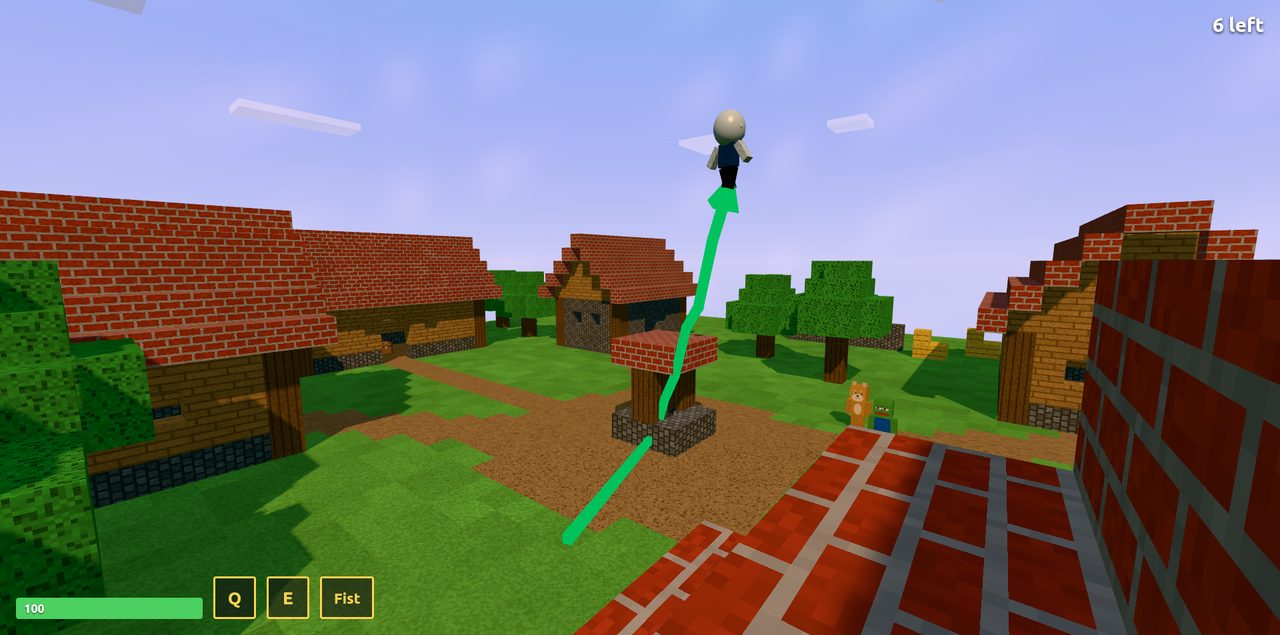
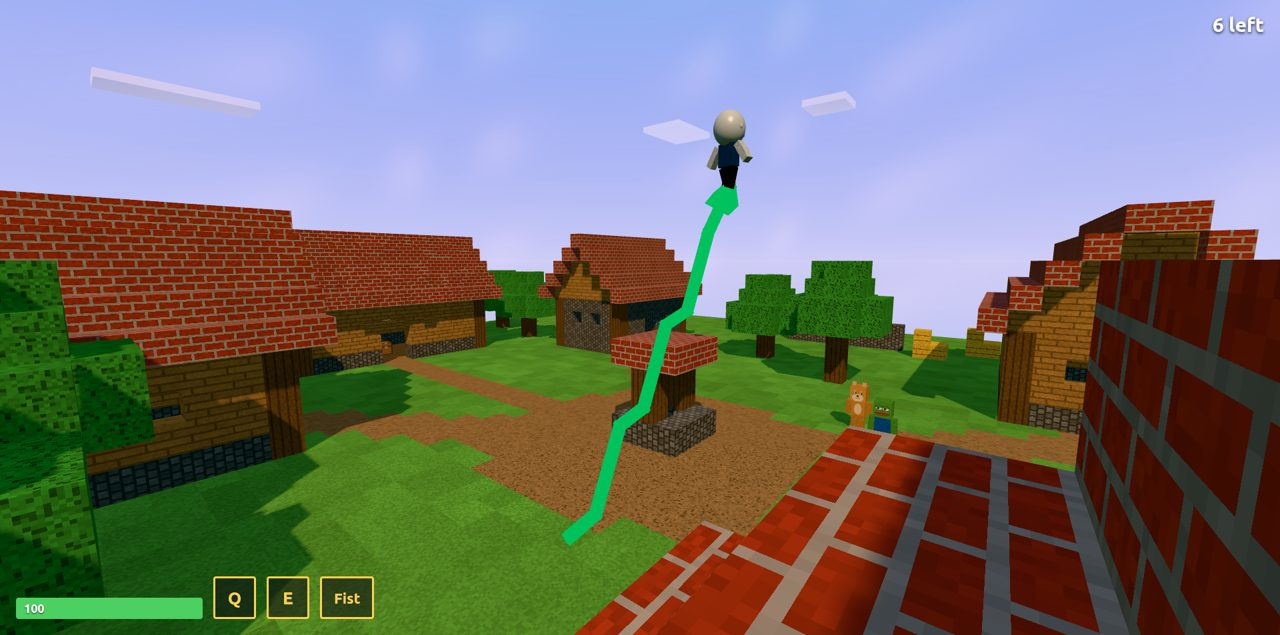
Fix round for PR #8: nothing outlives a restart, no inherited block, true chart endpoints
The GPT-6.1 review found three P2 bugs, all reproduced in the probe before the fix:

- Benched characters left effects in the world. A kit's Gear now has clear(), run on hide() and
  respawn(): the cow's slow-motion ghosts, Meme Man's charts and scorch mark go at once.
- Play Again while carrying a block threw it into the new match. Gigachad's clear() puts down what
  he holds without throwing it, and the match clears projectiles after everyone is respawned.
- Meme Man's chart built its points with the same scratch vector its caller passed as an endpoint,
  so the red chart ended at (0, 0, 0). It copies its endpoints and has its own offset vector.

Probe: 51 PASS (two new checks, both failing on the unfixed code), byte-identical over two runs.
The stonks screenshots (docs/m3/10, 11) are re-shot with the corrected charts.

diff --git a/scripts/probe-m3.ts b/scripts/probe-m3.ts
@@ -64,6 +64,9 @@ export function m3(canvas: HTMLCanvasElement) {
   seeded(36, () => wojak());
   seeded(37, () => cow());
   seeded(38, () => matches());
+  // The PR #8 review's reproductions.
+  seeded(41, () => charts());
+  seeded(42, () => restart(canvas));
 }
 
 /** The kit system: every module is a working character, and no shared code names any of them. */
@@ -450,5 +453,88 @@ function matches() {
   const unused = wanted.filter((w) => !uses.get(w));
   check('Bots use every power in real matches', unused.length === 0 && !broken && match.time > BOSS_AT,
     `6 bot-only matches: ${[...uses].map(([k, n]) => `${k} ${n}`).join(', ')}${unused.length ? `; never used: ${unused.join(', ')}` : ''}${broken ? `; broken: ${broken}` : ''}`);
+  for (const f of match.fighters) f.hide();
+}
+
+/**
+ * PR #8 review: the chart Meme Man rides runs from where he takes off to the top, and the red one
+ * from the top down to where he lands. Building its points used to move an endpoint passed in as a
+ * shared scratch vector, so a launch from (10, 0, -6) to (16, 0, -6) drew the red line to (0, 0, 0).
+ */
+function charts() {
+  resetWorld();
+  const mm = body('Meme Man', 10, 0.0001, -6), a = arena([mm]);
+  const stonks = power(mm) as Power & { crashes: number; charts: { bars: THREE.Mesh[]; ends: THREE.Vector3[] }[]; apex: THREE.Vector3 };
+  mm.goal.set(16, 0, -6);
+  stonks.use(mm, a);
+  sim(a, 3, [], () => stonks.crashes > 0);
+  const [rise, fall] = stonks.charts;
+  const ends = (c: typeof rise) => [c.bars[0].position.clone().multiplyScalar(2).sub(c.ends[0]), c.ends[c.ends.length - 1]];
+  const [riseFrom, riseTo] = ends(rise), [fallFrom, fallTo] = ends(fall), apex = stonks.apex;
+  const takeoff = new THREE.Vector3(10, 0.4001, -6), impact = new THREE.Vector3(16, 0.4, -6);
+  const off = [riseFrom.distanceTo(takeoff), riseTo.distanceTo(apex), fallFrom.distanceTo(apex), fallTo.distanceTo(impact)];
+  // Every corner of the zigzag sits over the straight line between its ends, evenly spaced; only its height jogs.
+  const stray = (c: typeof rise, from: THREE.Vector3, to: THREE.Vector3) =>
+    Math.max(...c.ends.map((p, i) => {
+      const want = from.clone().lerp(to, (i + 1) / c.ends.length);
+      return Math.hypot(p.x - want.x, p.z - want.z);
+    }));
+  const worst = Math.max(stray(rise, takeoff, apex), stray(fall, apex, impact));
+  const v = (p: THREE.Vector3) => `(${p.toArray().map((n) => r(n, 2)).join(', ')})`;
+  check('Meme Man\'s charts run from his take-off to the top, and down to where he lands', stonks.charts.length === 2 && Math.max(...off) < 0.05 && worst < 0.05 && Math.hypot(mm.pos.x - 16, mm.pos.z + 6) < 1,
+    `green ${v(riseFrom)} to ${v(riseTo)}, red ${v(fallFrom)} to ${v(fallTo)}, every corner within ${r(worst, 3)} of its place along the way; the top at ${v(apex)}; he came down at ${v(mm.pos)}`);
+  done(mm);
+}
+
+/**
+ * PR #8 review: Play Again leaves nothing behind. With the cow's slow-motion ghosts, Meme Man's
+ * charts and the player's carried block all out, a restart without those characters shows exactly
+ * what a clean start shows, with nothing in flight; three seconds on, still nothing of theirs.
+ */
+function restart(canvas: HTMLCanvasElement) {
+  resetWorld();
+  const you = new Player(body('Gigachad', 0, 0.0001, 8), canvas);
+  const match = new Match(scene, fx, you), a = match.arena;
+  const after = ['Doge', 'Pepe', 'Trollface', 'Nyan Cat', 'Wojak'].map(kit);
+  const shown = () => new Set(scene.children.filter((c) => c.visible));
+  const frame = (dt: number) => {
+    match.step(dt, false);
+    for (const f of match.fighters) f.render(dt, false);
+  };
+  seeded(5, () => match.start(after));
+  for (const f of match.fighters) f.render(0, false);
+  const clean = shown();
+
+  match.start(['Udder Cow', 'Meme Man', 'Orang', 'Nyan Cat', 'Wojak'].map(kit));
+  for (let i = 0; i < 120; i++) frame(1 / 60); // everyone lands
+  // Every bot's power at once, aimed 8 blocks ahead of it, and the player tears out a block to carry.
+  for (const f of match.bots.map((b) => b.f)) {
+    f.goal.copy(f.pos).addScaledVector(f.forward(new THREE.Vector3()), 8);
+    f.aimDir.subVectors(f.goal, f.pos).normalize();
+    for (const p of f.gear.powers) p.use(f, a);
+  }
+  const carried = power(you.f, 1).use(you.f, a) && you.f.lifting;
+  for (let i = 0; i < 36; i++) frame(1 / 60);
+  const out = [...shown()].filter((c) => !clean.has(c)).length;
+  const cow = match.fighters.find((f) => f.kit.name === 'Udder Cow')!, mm = match.fighters.find((f) => f.kit.name === 'Meme Man')!;
+  const busy = `cow jumping ${cow.busy}, Meme Man riding the chart ${mm.busy}, player carrying ${carried}`;
+
+  seeded(5, () => match.start(after));
+  for (const f of match.fighters) f.render(0, false);
+  const left = [...shown()].filter((c) => !clean.has(c));
+  const flying = match.shots.flying;
+  // Three seconds on, ignoring what the new match's own fighters put up: rings, flashes, health bars, shots.
+  for (let i = 0; i < 180; i++) frame(1 / 60);
+  const own = new Set<THREE.Object3D>([
+    ...(fx as unknown as { rings: { mesh: THREE.Object3D }[] }).rings.map((x) => x.mesh),
+    ...(fx as unknown as { flashes: { sprite: THREE.Object3D }[] }).flashes.map((x) => x.sprite),
+    ...[...match.cast.map((b) => b.f), you.f].flatMap((f) => (f as unknown as { hpBar?: { sprite: THREE.Object3D } }).hpBar?.sprite ?? []),
+  ]);
+  const shots = match.shots as unknown as { live: { mesh: THREE.Object3D }[]; spare: Record<string, THREE.Object3D[]> };
+  for (const x of [...shots.live.map((l) => l.mesh), ...Object.values(shots.spare).flat()]) own.add(x);
+  const later = [...shown()].filter((c) => !clean.has(c) && !own.has(c));
+  const names = (cs: THREE.Object3D[]) => cs.map((c) => c.type + (c.children.length ? `(${c.children.length})` : '')).join(', ') || 'none';
+  check('Play Again leaves nothing behind: no ghosts, charts or carried block from the last match', out > 0 && cow.busy && mm.busy && carried && left.length === 0 && flying === 0 && later.length === 0,
+    `${out} objects of theirs up mid-power (${busy}); after the restart, left over: ${names(left)}, ${flying} shots in flight; 3 s later: ${names(later)}`);
   for (const f of match.fighters) f.hide();
 }

diff --git a/src/kits/mememan.ts b/src/kits/mememan.ts
@@ -56,8 +56,9 @@ class Chart {
 
   constructor(private readonly scene: THREE.Scene, from: THREE.Vector3, to: THREE.Vector3, color: number, jag: number) {
     this.mat = new THREE.MeshBasicMaterial({ color, transparent: true });
-    const n = 7;
-    const pts = Array.from({ length: n + 1 }, (_, i) => from.clone().lerp(to, i / n).add(v1.set(0, i % 2 && i < n ? jag : 0, 0)));
+    // Copied first: callers pass the module's scratch vectors, which building the points must not move.
+    const n = 7, start = from.clone(), end = to.clone(), jog = new THREE.Vector3();
+    const pts = Array.from({ length: n + 1 }, (_, i) => start.clone().lerp(end, i / n).add(jog.set(0, i % 2 && i < n ? jag : 0, 0)));
     for (let i = 0; i < n; i++) {
       const a = pts[i], b = pts[i + 1], len = a.distanceTo(b);
       const bar = new THREE.Mesh(new THREE.BoxGeometry(0.24, 0.24, len + 0.2), this.mat);
@@ -253,6 +254,16 @@ class Stonks extends Power {
     for (const c of this.charts) c.fading = Math.max(c.fading, 0);
   }
 
+  /** Takes down the charts and the scorch mark at once: nothing would fade them once he is gone. */
+  clear() {
+    for (const c of this.charts) c.dispose();
+    this.charts = [];
+    this.rise = this.fall = null;
+    this.scar.visible = false;
+    this.scarAge = 99;
+    this.stage = 'idle';
+  }
+
   wants(f: Fighter, _a: Arena, target: Fighter | null) {
     if (!target || !f.grounded) return false;
     const d = Math.hypot(target.pos.x - f.pos.x, target.pos.z - f.pos.z);
@@ -272,9 +283,11 @@ export default {
   allies: ['Orang'],
   colors: ['#d4dee5', '#2c3e66', '#22c55e', '#ef4444'],
   create(f: Fighter) {
+    const stonks = new Stonks(f.scene);
     return {
       model: new Humanoid({ skin: '#d4dee5', hair: '#d4dee5', shirt: '#2c3e66', pants: '#22252b', face: () => {}, scale: 1, head }),
-      powers: [new Stonks(f.scene)],
+      powers: [stonks],
+      clear: () => stonks.clear(),
     };
   },
 } satisfies Kit;

diff --git a/src/match.ts b/src/match.ts
@@ -84,7 +84,7 @@ export class Match {
     player?.f.hide();
   }
 
-  /** Puts these characters in as this match's bots, and benches the rest. Allies team up. */
+  /** Puts these characters in as this match's bots, and benches the rest (putting away what they had out). Allies team up. */
   seat(kits: readonly Kit[]) {
     this.bots.length = this.fighters.length = 0;
     for (const b of this.cast) {
@@ -115,7 +115,6 @@ export class Match {
     this.boss.reset();
     this.storm.reset();
     this.storm.show(true);
-    this.shots.reset();
     this.chests.reset();
     this.live = true;
     this.time = this.kills = this.acc = 0;
@@ -126,6 +125,7 @@ export class Match {
     for (const b of this.bots) b.reset();
     const taken = this.spread();
     if (this.player) this.player.dropIn(this.spot(taken));
+    this.shots.reset(); // last, so nothing the old match had in hand is thrown into this one
   }
 
   /** Puts the bots back at full health, spread over the island. Returns where they stand. */

diff --git a/src/kits/gigachad.ts b/src/kits/gigachad.ts
@@ -284,6 +284,15 @@ class Grab extends Power {
     if (this.active) this.letGo(f);
   }
 
+  /** Puts down whatever it holds without throwing or dropping it: the match is over for it. */
+  discard(f: Fighter) {
+    if (this.held?.heldBy === f) this.held.heldBy = null;
+    this.held = null;
+    this.carrying = false;
+    this.chunk.visible = false;
+    f.lifting = false;
+  }
+
   wants(f: Fighter, _a: Arena, target: Fighter | null) {
     if (this.active) return this.heldFor > 0.6;
     return !!target && Math.hypot(target.pos.x - f.pos.x, target.pos.z - f.pos.z) < GRAB_REACH - 0.4;
@@ -308,12 +317,14 @@ export default {
     bow.scale.setScalar(1.35);
     bow.visible = false;
     model.hand.add(bow);
+    const grab = new Grab(f.scene);
     return {
       model,
-      powers: [new Slam(), new Grab(f.scene)],
+      powers: [new Slam(), grab],
       step() {
         bow.visible = f.bowOut;
       },
+      clear: () => grab.discard(f),
     };
   },
 } satisfies Kit;

diff --git a/src/kits/cow.ts b/src/kits/cow.ts
@@ -137,6 +137,15 @@ class Ghosts {
     }
   }
 
+  /** Hides every copy at once. */
+  clear() {
+    for (const c of this.copies) {
+      c.age = 9;
+      c.mat.opacity = 0;
+      c.root.visible = false;
+    }
+  }
+
   /** `dt` in real seconds; leaves a new copy every so often while `on`. */
   update(dt: number, on: boolean) {
     this.clock += dt;
@@ -246,6 +255,6 @@ export default {
         ghosts.update(dt / who.timeScale, who.timeScale < 1);
       },
     };
-    return { model, powers: [new FenceJump()] };
+    return { model, powers: [new FenceJump()], clear: () => ghosts.clear() };
   },
 } satisfies Kit;

diff --git a/src/fighter.ts b/src/fighter.ts
@@ -173,6 +173,7 @@ export class Fighter {
   }
 
   respawn(at: THREE.Vector3) {
+    this.gear.clear?.(); // first, so nothing from the last life acts on this one
     this.pos.copy(at);
     this.vel.set(0, 0, 0);
     this.hp = 100;
@@ -201,7 +202,9 @@ export class Fighter {
     this.root.visible = true;
   }
 
+  /** Takes the body off the island: knocked out and gone, or left out of this match. */
   hide() {
+    this.gear.clear?.();
     this.root.visible = false;
     if (this.hpBar) this.hpBar.sprite.visible = false;
   }

diff --git a/src/kit.ts b/src/kit.ts
@@ -41,6 +41,11 @@ export interface Gear {
   step?(a: Arena): void;
   /** A fresh life. */
   reset?(): void;
+  /**
+   * Puts away everything the fighter has out in the world or in hand (effects, a carried block),
+   * without letting any of it act: it is leaving the island, or starting a fresh life.
+   */
+  clear?(): void;
 }
 
 /** The body's look and animation. Feet at y = 0, facing +z, in blocks. */

diff --git a/LESSONS.md b/LESSONS.md
@@ -250,3 +250,19 @@ The worker appends short, durable lessons here: gotchas, decisions, and deploy s
   bot-only matches before 2:00. Tallying knockouts by killer and verb over 16 to 24 seeded matches
   pointed straight at them. Softer rolling hits (5 damage, needing speed 6), a rarer, weaker strike
   and crater, and allies ganging up less brought the median back to about 3:20.
+
+## M3 part 1 review fixes (2026-10-10)
+- Anything a kit puts in the world outside its fighter (the cow's ghosts, Meme Man's charts and
+  scorch mark, a carried block) needs a way to go when the fighter does. A benched or knocked-out
+  fighter is not stepped or rendered, so effects that age in its step or animation froze in place
+  and lasted into the next match. `Gear.clear()` now runs on `hide()` and `respawn()`, and each kit
+  puts its things away there without letting them act.
+- Clear projectiles after everyone is respawned, not before. Respawning the player interrupted the
+  grab, which dropped its block as a new projectile into the fresh match.
+- A function handed a module's scratch vector must copy it before using that scratch vector itself.
+  The chart built its points with `v1` while its caller passed `v1` as an endpoint, so the red chart
+  ended at (0, 0, 0). Copy the endpoints first, and give helpers their own temporaries.
+- To probe "a restart leaves nothing behind" without knowing what each kit owns, snapshot the set
+  of visible top-level scene objects right after a clean start, run every power, restart with the
+  same seed, and diff the two sets. Re-running the probe on the unfixed code (`git stash push -- src`)
+  showed the check catching all three bugs.
